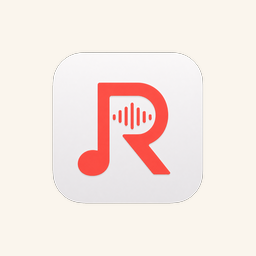
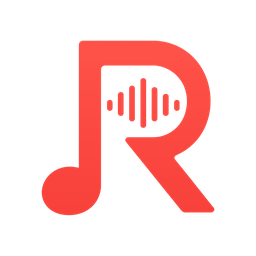
deploy: publish website and web app [skip ci] 7fed9ccf2131921abe5e2dbfa1595bcdce3c48d9

Changed region(s): [[0.1562, 0.1562, 0.8438, 0.8438]]

diff --git a/app/index.html b/app/index.html
@@ -33,14 +33,14 @@
   <link rel="manifest" href="manifest.json">
   <style>
     html, body {
-      background: #FAF5EE;
+      background: #F7F7F8;
       height: 100%;
       margin: 0;
     }
 
     #launch-screen {
       align-items: center;
-      background: #FAF5EE;
+      background: #F7F7F8;
       display: flex;
       flex-direction: column;
       inset: 0;
@@ -51,16 +51,24 @@
     }
 
     #launch-screen img {
-      height: 180px;
+      height: 144px;
       position: absolute;
-      transform: translateY(-24px);
-      width: 180px;
+      transform: translateY(-50px);
+      width: 144px;
     }
 
-    #launch-screen span {
+    #launch-screen .launch-title {
       color: #1C1C22;
-      font: 600 20px -apple-system, BlinkMacSystemFont, "Segoe UI", sans-serif;
+      font: 600 24px -apple-system, BlinkMacSystemFont, "Segoe UI", sans-serif;
       letter-spacing: 0.2px;
+      position: absolute;
+      transform: translateY(28px);
+    }
+
+    #launch-screen .launch-tagline {
+      color: #70707A;
+      font: 400 13px -apple-system, BlinkMacSystemFont, "Segoe UI", sans-serif;
+      letter-spacing: 0.1px;
       position: absolute;
       transform: translateY(58px);
     }
@@ -74,7 +82,8 @@
 <body>
   <div id="launch-screen" role="status" aria-label="Reverie is starting">
     <img src="icons/LaunchMark.png" alt="">
-    <span>Reverie</span>
+    <span class="launch-title">Reverie</span>
+    <span class="launch-tagline">听自己的音乐</span>
   </div>
   <!--
     You can customize the "flutter_bootstrap.js" script.

diff --git a/app/flutter_bootstrap.js b/app/flutter_bootstrap.js
@@ -37,6 +37,6 @@ _flutter.buildConfig = {"engineRevision":"83675ed27633283e7fc296c8bca22e841224c0
 
 _flutter.loader.load({
   serviceWorkerSettings: {
-    serviceWorkerVersion: "3386535917" /* Flutter's service worker is deprecated and will be removed in a future Flutter release. */
+    serviceWorkerVersion: "2189664587" /* Flutter's service worker is deprecated and will be removed in a future Flutter release. */
   }
 });